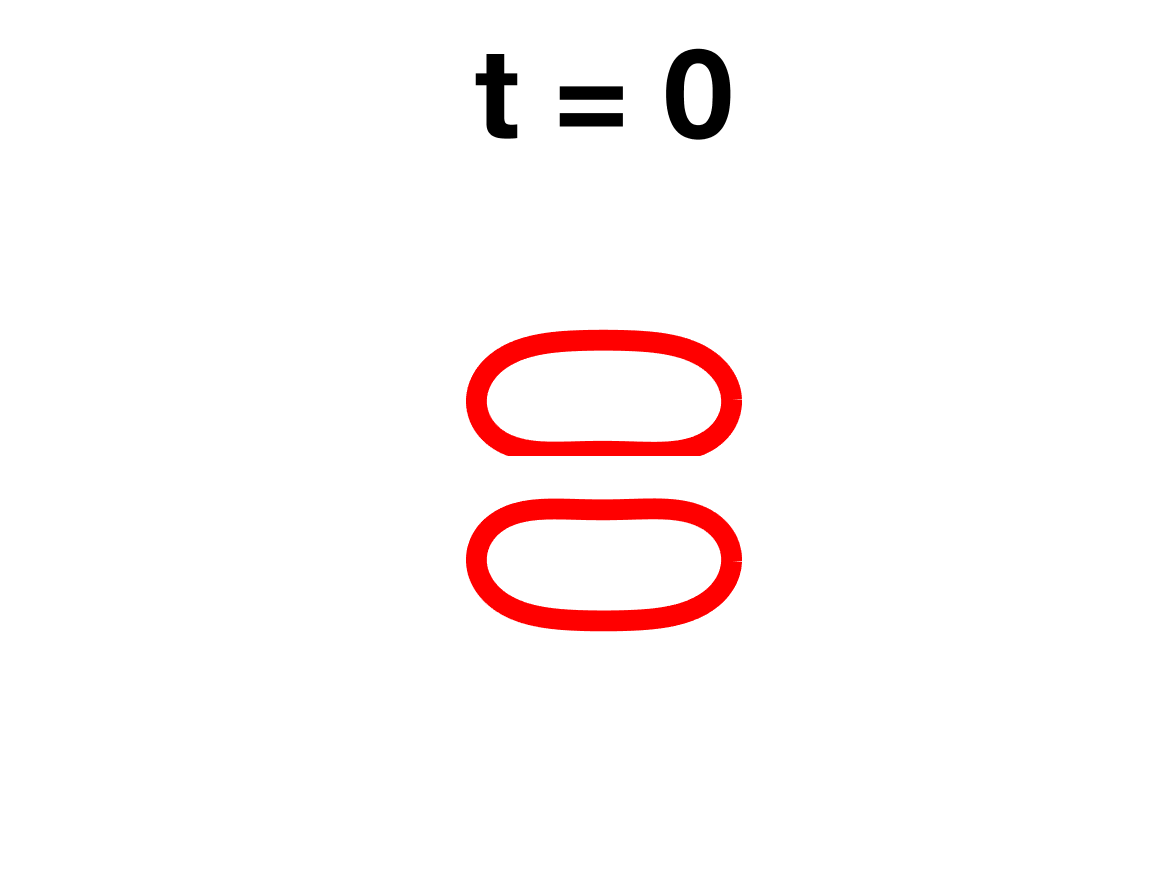
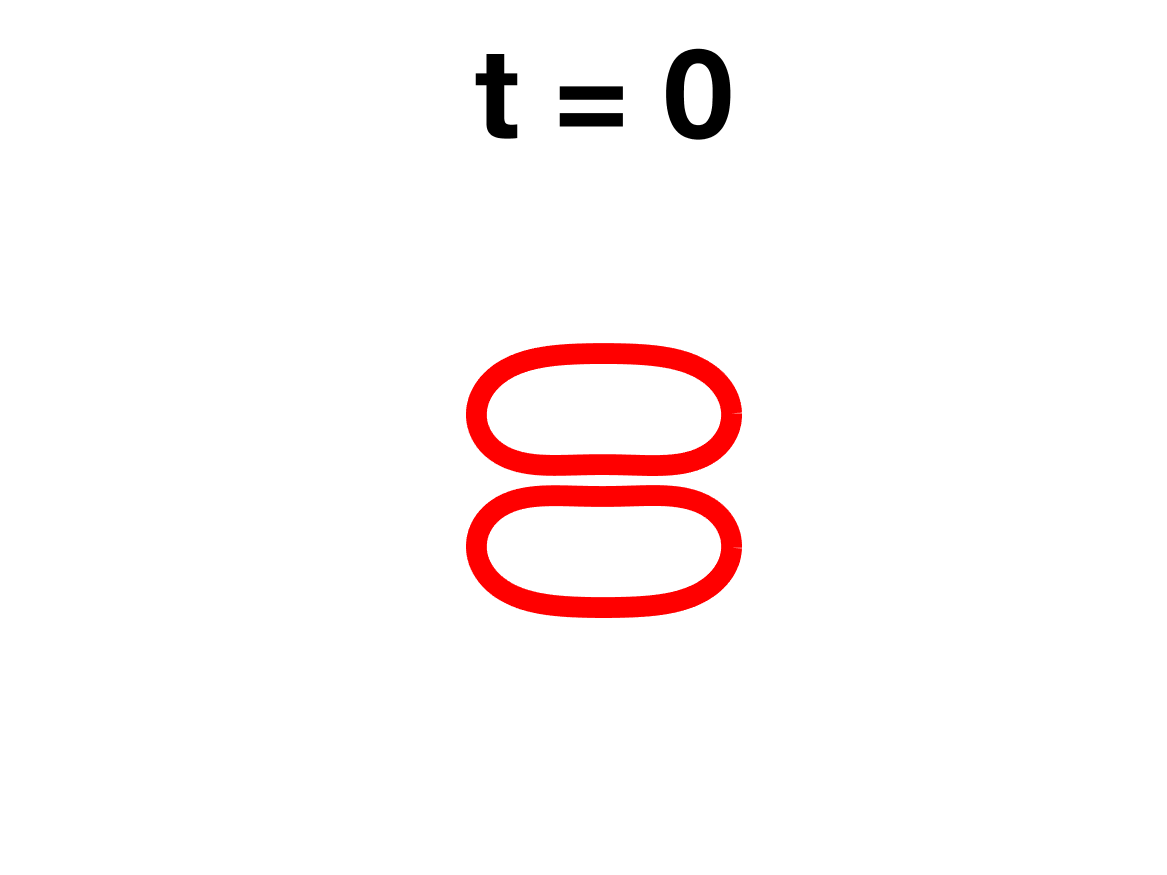
put in a few todos that ashley pointed out

Changed region(s): [[0.401, 0.3703, 0.6478, 0.7406]]

diff --git a/vesicle_code/docs/adhesion/adhesion.tex b/vesicle_code/docs/adhesion/adhesion.tex
@@ -144,6 +144,10 @@ use the optional argument of the \verb+\item+ command to give the category of ea
 %\tableofcontents
 
 %%%%%%%%%%%%%%%%%%%%%%%%%%%%%%%%%%%%%%%%%%%%%%%%%%%%%%%%%%%%%%%%%%%%%%%%
+
+\todo[inline]{$\sigma$ is overdefined as the Hamacher constant, and the
+tension, and possibly the stress}
+
 \section{Introduction}
 Vesicles (self-enclosed phopholipid bilayer membranes) have been widely utilized
 as simple model membranes for cell mimics in biomedical and material engineering \cite{}. 
@@ -294,6 +298,8 @@ start by defining the Stokes single-layer potential
     \ff(\yy) ds_\yy, \quad \xx \in \RR^2.
   \label{eqn:SLP}
 \end{align}
+\todo[inline]{Define $\rr$ and other variables in
+equation~\eqref{eqn:SLP}}
 The traction jump of the velocity $\uu(\xx) = \SS[\ff](\xx)$ is the
 density function $\ff$, so the fluid velocity is $\xx \in \RR^2$ is
 \begin{align*}
@@ -574,28 +580,28 @@ vesicles are fixed, while the area is changed to achieve the desired
 reduced area.
 
 \begin{figure}[htp]
-  \includegraphics[width = 0.16\textwidth]{figs/extensional_adR4em1adS7em1Chi5em2_ra080_image01.png}
-  \includegraphics[width = 0.16\textwidth]{figs/extensional_adR4em1adS7em1Chi5em2_ra080_image02.png}
-  \includegraphics[width = 0.16\textwidth]{figs/extensional_adR4em1adS7em1Chi5em2_ra080_image03.png}
-  \includegraphics[width = 0.16\textwidth]{figs/extensional_adR4em1adS7em1Chi5em2_ra080_image04.png}
-  \includegraphics[width = 0.16\textwidth]{figs/extensional_adR4em1adS7em1Chi5em2_ra080_image05.png}
-  \includegraphics[width = 0.16\textwidth]{figs/extensional_adR4em1adS7em1Chi5em2_ra080_image06.png}
+  \includegraphics[width = 0.16\textwidth]{figs/extensional_adR4em1adS7em1Chi3em2_ra080_image01.png}
+  \includegraphics[width = 0.16\textwidth]{figs/extensional_adR4em1adS7em1Chi3em2_ra080_image02.png}
+  \includegraphics[width = 0.16\textwidth]{figs/extensional_adR4em1adS7em1Chi3em2_ra080_image03.png}
+  \includegraphics[width = 0.16\textwidth]{figs/extensional_adR4em1adS7em1Chi3em2_ra080_image04.png}
+  \includegraphics[width = 0.16\textwidth]{figs/extensional_adR4em1adS7em1Chi3em2_ra080_image05.png}
+  \includegraphics[width = 0.16\textwidth]{figs/extensional_adR4em1adS7em1Chi3em2_ra080_image06.png}
   \caption{Two vesicles in an extensional flow.  The reduced area is
   $0.8$, the adhesion strength is $0.7$, and the adhesion length scale
-is $0.4$, extensional rate is $\chi = 0.05$.}
+is $0.4$, extensional rate is $\chi = 0.03$.}
 \end{figure}
 
 
 \begin{figure}[htp]
-  \includegraphics[width = 0.16\textwidth]{figs/extensional_adR4em1adS7em1Chi9em2_ra080_image01.png}
-  \includegraphics[width = 0.16\textwidth]{figs/extensional_adR4em1adS7em1Chi9em2_ra080_image02.png}
-  \includegraphics[width = 0.16\textwidth]{figs/extensional_adR4em1adS7em1Chi9em2_ra080_image03.png}
-  \includegraphics[width = 0.16\textwidth]{figs/extensional_adR4em1adS7em1Chi9em2_ra080_image04.png}
+  \includegraphics[width = 0.16\textwidth]{figs/extensional_adR4em1adS7em1Chi5em2_ra080_image01.png}
+  \includegraphics[width = 0.16\textwidth]{figs/extensional_adR4em1adS7em1Chi5em2_ra080_image02.png}
+  \includegraphics[width = 0.16\textwidth]{figs/extensional_adR4em1adS7em1Chi5em2_ra080_image03.png}
+  \includegraphics[width = 0.16\textwidth]{figs/extensional_adR4em1adS7em1Chi5em2_ra080_image04.png}
   \includegraphics[width = 0.16\textwidth]{figs/extensional_adR4em1adS7em1Chi9em2_ra080_image05.png}
-  \includegraphics[width = 0.16\textwidth]{figs/extensional_adR4em1adS7em1Chi9em2_ra080_image06.png}
+  \includegraphics[width = 0.16\textwidth]{figs/extensional_adR4em1adS7em1Chi5em2_ra080_image06.png}
   \caption{Two vesicles in an extensional flow.  The reduced area is
   $0.8$, the adhesion strength is $0.7$, and the adhesion length scale
-is $0.4$, extensional rate is $\chi = 0.09$.}
+is $0.4$, extensional rate is $\chi = 0.05$.}
 \end{figure}
 
 

diff --git a/vesicle_code/examples/output/makeImages.m b/vesicle_code/examples/output/makeImages.m
@@ -4,8 +4,8 @@ set(0,'DefaultAxesFontSize',22)
 irate = 10; % controls the speed of the visualization
 
 if 1
-  file = 'extensional2VesData.bin';
-%  file = '~/projects/brinkman/vesicle_code/results/extensional2Ves/adR4em1adS7em1Chi5em2_ra080/extensional2VesData.bin';
+%  file = 'extensional2VesData.bin';
+  file = '~/projects/brinkman/vesicle_code/results/extensional2Ves/adR4em1adS7em1Chi8em2_ra095/extensional2VesData.bin';
   ax = [-4 4 -5 5];
   options.confined = false;
 end
@@ -41,8 +41,8 @@ if 0
   options.confined = false;
 end
 if 0
-  file = 'shear2VesBData.bin.run1';
-%  file = '~/projects/brinkman/vesicle_code/results/shear2Ves/adR4em1adS7em1Chi5em1_ra090/shear2VesData.bin';
+%  file = 'shear2VesBData.bin.run1';
+  file = '~/projects/brinkman/vesicle_code/results/shear2Ves/adR4em1adS7em1Chi5em1_ra050/shear2VesData.bin';
   ax = [-10 10 -3 3];
   options.confined = false;
 end

diff --git a/vesicle_code/src/Ves2D.m b/vesicle_code/src/Ves2D.m
@@ -126,6 +126,7 @@ while time < prams.T - 1e-10
   end
   % go back to old time
 
+  if 0
   for k = 1:prams.nv
     z = X(1:end/2,k) + 1i*X(end/2+1:end,k);
     zh = fftshift(fft(z));
@@ -146,6 +147,7 @@ while time < prams.T - 1e-10
   X(end/2+1:end,1) = X(end/2+1:end,1) - ymid/2;
   X(end/2+1:end,2) = X(end/2+1:end,2) - ymid/2;
   % shift vertically so that the x axis is centered between the vesicles
+  end
 
   if accept
     vesicle = capsules(X,sigma,u,prams.kappa,prams.viscCont);

diff --git a/vesicle_code/src/poten.m b/vesicle_code/src/poten.m
@@ -78,7 +78,7 @@ end
 end % poten: constructor
 
 %%%%%%%%%%%%%%%%%%%%%%%%%%%%%%%%%%%%%%%%%%%%%%%%%%%%%%%%%%%%%%%%%%%%%%
-function [LP] = nearSingInt(o,vesicleSou,f,selfMat,...
+function LP = nearSingInt(o,vesicleSou,f,selfMat,...
     NearStruct,kernel,kernelDirect,vesicleTar,tEqualS,upNear,idebug)
 % 
 % vesicleSou : Source points
